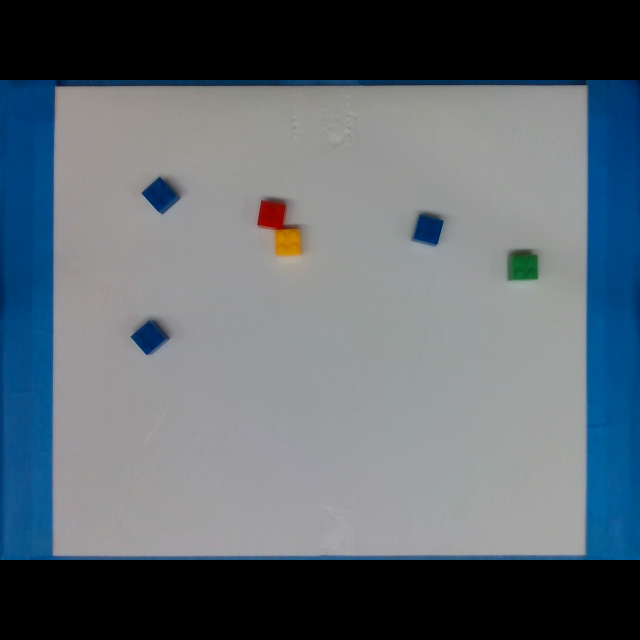
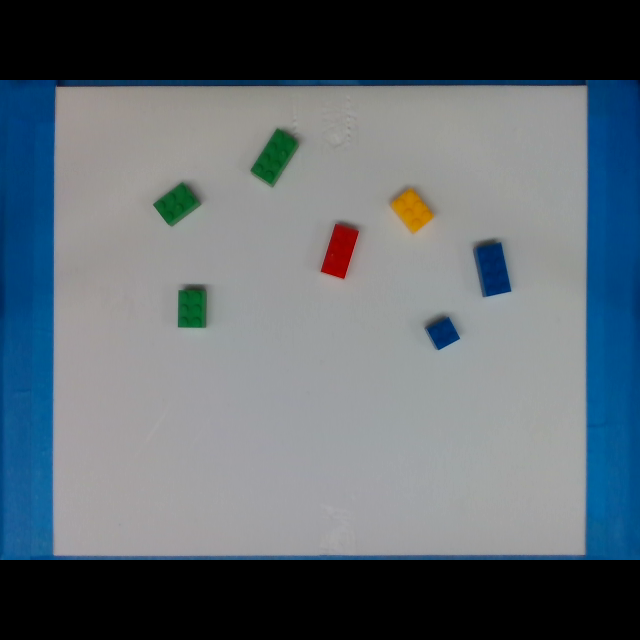
zzz_laptop_update

diff --git a/knolling_lego.py b/knolling_lego.py
@@ -34,8 +34,8 @@ from sklearn.preprocessing import MinMaxScaler
 from shapely.geometry import Polygon
 
 torch.manual_seed(42)
-np.random.seed(100)
-random.seed(100)
+np.random.seed(123)
+random.seed(123)
 
 class Net(nn.Module):
     def __init__(self):
@@ -1101,7 +1101,7 @@ class Arm:
                 while True:
                     tar_pos = cur_pos + step_pos
                     tar_ori = cur_ori + step_ori
-                    ik_angles0 = p.calculateInverseKinematics(self.arm_id, 9, targetPosition=tar_pos + np.array([0, 0, sim_height]),
+                    ik_angles0 = p.calculateInverseKinematics(self.arm_id, 9, targetPosition=tar_pos,
                                                               maxNumIterations=200,
                                                               targetOrientation=p.getQuaternionFromEuler(tar_ori))
                     for motor_index in range(self.num_motor):
@@ -1278,9 +1278,10 @@ class Arm:
 
         def clean_item(manipulator_before, new_xyz_list):
 
-            gripper_width = 0.034
-            gripper_height = 0.024
+            gripper_width = 0.024
+            gripper_height = 0.034
             restrict_gripper_diagonal = np.sqrt(gripper_width ** 2 + gripper_height ** 2)
+            gripper_lego_gap = 0.008
             crowded_pos = []
             crowded_ori = []
             crowded_index = []
@@ -1322,30 +1323,45 @@ class Arm:
                 for i in range(len(crowded_index)):
                     break_flag = False
                     once_flag = False
-                    x = new_xyz_list[crowded_index[i]][0] / 2
-                    y = new_xyz_list[crowded_index[i]][1] / 2
+
+                    length_lego = new_xyz_list[crowded_index[i]][0]
+                    width_lego = new_xyz_list[crowded_index[i]][1]
                     theta = manipulator_before[crowded_index[i]][5]
-                    vertex_1 = np.array(
-                        [(x * math.cos(theta)) - (y * math.sin(theta)), (x * math.sin(theta)) + (y * math.cos(theta)), 0])
-                    vertex_2 = np.array(
-                        [(-x * math.cos(theta)) - (y * math.sin(theta)), (-x * math.sin(theta)) + (y * math.cos(theta)), 0])
-                    vertex_3 = np.array([(-x * math.cos(theta)) - (-y * math.sin(theta)),
-                                         (-x * math.sin(theta)) + (-y * math.cos(theta)), 0])
-                    vertex_4 = np.array(
-                        [(x * math.cos(theta)) - (-y * math.sin(theta)), (x * math.sin(theta)) + (-y * math.cos(theta)), 0])
-                    point_1 = vertex_1 + np.array(
-                        [(gripper_width / 2 * math.cos(theta)) - (gripper_height / 2 * math.sin(theta)),
-                         (gripper_width / 2 * math.sin(theta)) + (gripper_height / 2 * math.cos(theta)), 0])
-                    point_2 = vertex_2 + np.array(
-                        [(-gripper_width / 2 * math.cos(theta)) - (gripper_height / 2 * math.sin(theta)),
-                         (-gripper_width / 2 * math.sin(theta)) + (gripper_height / 2 * math.cos(theta)), 0])
-                    point_3 = vertex_3 + np.array(
-                        [(-gripper_width / 2 * math.cos(theta)) - (-gripper_height / 2 * math.sin(theta)),
-                         (-gripper_width / 2 * math.sin(theta)) + (-gripper_height / 2 * math.cos(theta)), 0])
-                    point_4 = vertex_4 + np.array(
-                        [(gripper_width / 2 * math.cos(theta)) - (-gripper_height / 2 * math.sin(theta)),
-                         (gripper_width / 2 * math.sin(theta)) + (-gripper_height / 2 * math.cos(theta)), 0])
-                    sequence_point = np.array([point_1, point_2, point_3, point_4])
+
+                    matrix = np.array([[np.cos(theta), -np.sin(theta)],
+                                       [np.sin(theta), np.cos(theta)]])
+                    target_point = np.array([[(length_lego + gripper_height + gripper_lego_gap) / 2, (width_lego + gripper_width + gripper_lego_gap) / 2],
+                                            [-(length_lego + gripper_height + gripper_lego_gap) / 2, (width_lego + gripper_width + gripper_lego_gap) / 2],
+                                            [-(length_lego + gripper_height + gripper_lego_gap) / 2, -(width_lego + gripper_width + gripper_lego_gap) / 2],
+                                            [(length_lego + gripper_height + gripper_lego_gap) / 2, -(width_lego + gripper_width + gripper_lego_gap) / 2]])
+                    target_point_rotate = (matrix.dot(target_point.T)).T
+                    print('this is target point rotate\n', target_point_rotate)
+                    sequence_point = np.concatenate((target_point_rotate, np.zeros((4, 1))), axis=1)
+
+                    # vertex_1 = np.array(
+                    #     [(x * math.cos(theta)) - (y * math.sin(theta)), (x * math.sin(theta)) + (y * math.cos(theta)),
+                    #      0])
+                    # vertex_2 = np.array(
+                    #     [(-x * math.cos(theta)) - (y * math.sin(theta)), (-x * math.sin(theta)) + (y * math.cos(theta)),
+                    #      0])
+                    # vertex_3 = np.array([(-x * math.cos(theta)) - (-y * math.sin(theta)),
+                    #                      (-x * math.sin(theta)) + (-y * math.cos(theta)), 0])
+                    # vertex_4 = np.array(
+                    #     [(x * math.cos(theta)) - (-y * math.sin(theta)), (x * math.sin(theta)) + (-y * math.cos(theta)),
+                    #      0])
+                    # point_1 = vertex_1 + np.array(
+                    #     [(gripper_width / 2 * math.cos(theta)) - (gripper_height / 2 * math.sin(theta)),
+                    #      (gripper_width / 2 * math.sin(theta)) + (gripper_height / 2 * math.cos(theta)), 0])
+                    # point_2 = vertex_2 + np.array(
+                    #     [(-gripper_width / 2 * math.cos(theta)) - (gripper_height / 2 * math.sin(theta)),
+                    #      (-gripper_width / 2 * math.sin(theta)) + (gripper_height / 2 * math.cos(theta)), 0])
+                    # point_3 = vertex_3 + np.array(
+                    #     [(-gripper_width / 2 * math.cos(theta)) - (-gripper_height / 2 * math.sin(theta)),
+                    #      (-gripper_width / 2 * math.sin(theta)) + (-gripper_height / 2 * math.cos(theta)), 0])
+                    # point_4 = vertex_4 + np.array(
+                    #     [(gripper_width / 2 * math.cos(theta)) - (-gripper_height / 2 * math.sin(theta)),
+                    #      (gripper_width / 2 * math.sin(theta)) + (-gripper_height / 2 * math.cos(theta)), 0])
+                    # sequence_point = np.array([point_1, point_2, point_3, point_4])
 
                     # print(crowded_index)
                     # print(crowded_index[i])
@@ -1410,6 +1426,8 @@ class Arm:
                             pass
                     else:
                         trajectory_pos_list.append([0.03159])
+                        print('this is crowded pos', crowded_pos[i])
+                        print('this is sequence point', sequence_point)
                         trajectory_pos_list.append(crowded_pos[i] + offset_high + sequence_point[0])
                         trajectory_pos_list.append(crowded_pos[i] + offset_low + sequence_point[0])
                         trajectory_pos_list.append(crowded_pos[i] + offset_low + sequence_point[1])
@@ -1434,7 +1452,6 @@ class Arm:
                     # only once!
                     if once_flag == True:
                         break
-
                 last_pos = np.asarray(p.getLinkState(self.arm_id, 9)[0])
                 last_ori = np.asarray(p.getEulerFromQuaternion(p.getLinkState(self.arm_id, 9)[1]))
                 for j in range(len(trajectory_pos_list)):
@@ -1629,7 +1646,7 @@ class Arm:
             print(conn)
             print(f"Connected by {addr}")
             table_surface_height = 0.032
-            sim_table_surface_height = 0.0
+            sim_table_surface_height = -0.015
             num_motor = 5
             # ! reset the pos in both real and sim
             reset_pos = [0.005, 0, 0.1]
@@ -1645,11 +1662,11 @@ class Arm:
                                         maxVelocity=3)
             for _ in range(200):
                 p.stepSimulation()
-                time.sleep(1 / 48)
+                time.sleep(1 / 24)
         else:
             conn = None
             table_surface_height = 0.032
-            sim_table_surface_height = 0.0
+            sim_table_surface_height = -0.015
 
         #######################################################################################
         # 1: clean_desk + clean_item, 3: knolling, 4: check_accuracy, 5: get_camera
@@ -1725,16 +1742,16 @@ if __name__ == '__main__':
 
     if command == 'knolling':
 
-        num_2x2 = 6
-        num_2x3 = 3
-        num_2x4 = 2
+        num_2x2 = 2
+        num_2x3 = 6
+        num_2x4 = 6
         total_offset = [0.15, 0, 0.006]
         grasp_order = [1, 0, 2]
         gap_item = 0.015
         gap_block = 0.02
         random_offset = True
-        real_operate = True
-        obs_order = 'real_image_obj'
+        real_operate = False
+        obs_order = 'sim_obj'
         check_dataset_error = False
 
 
